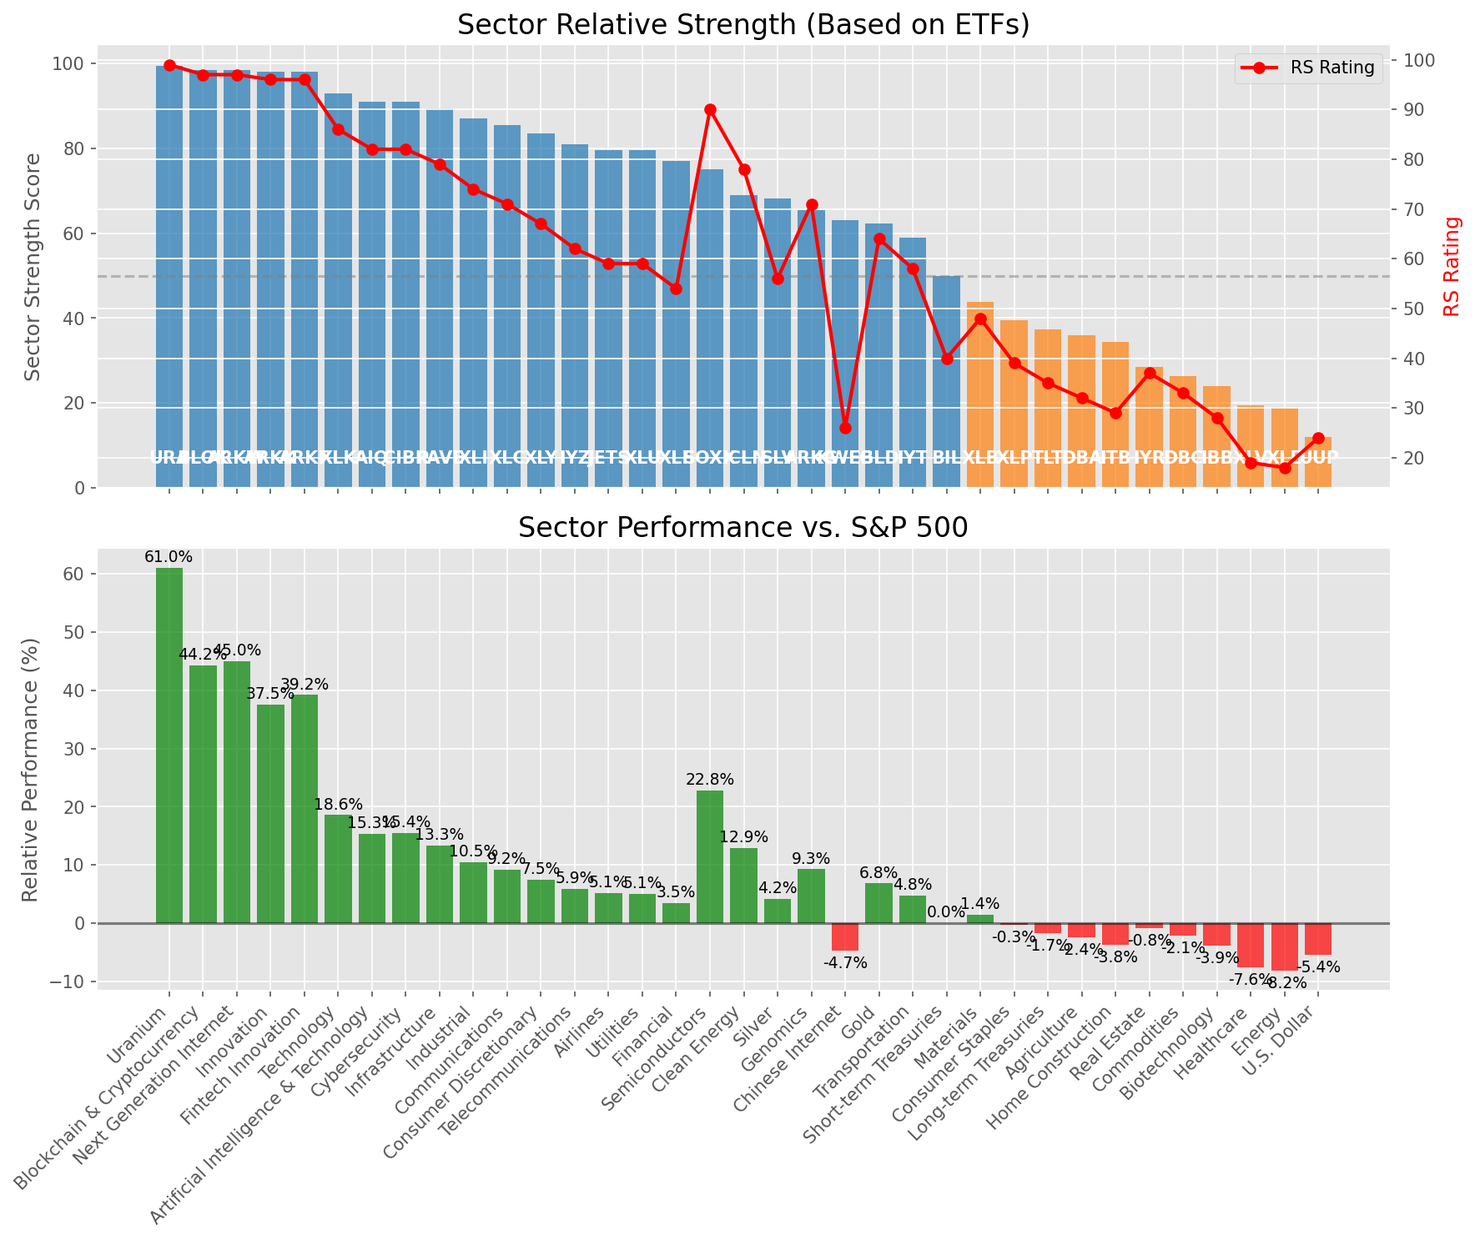
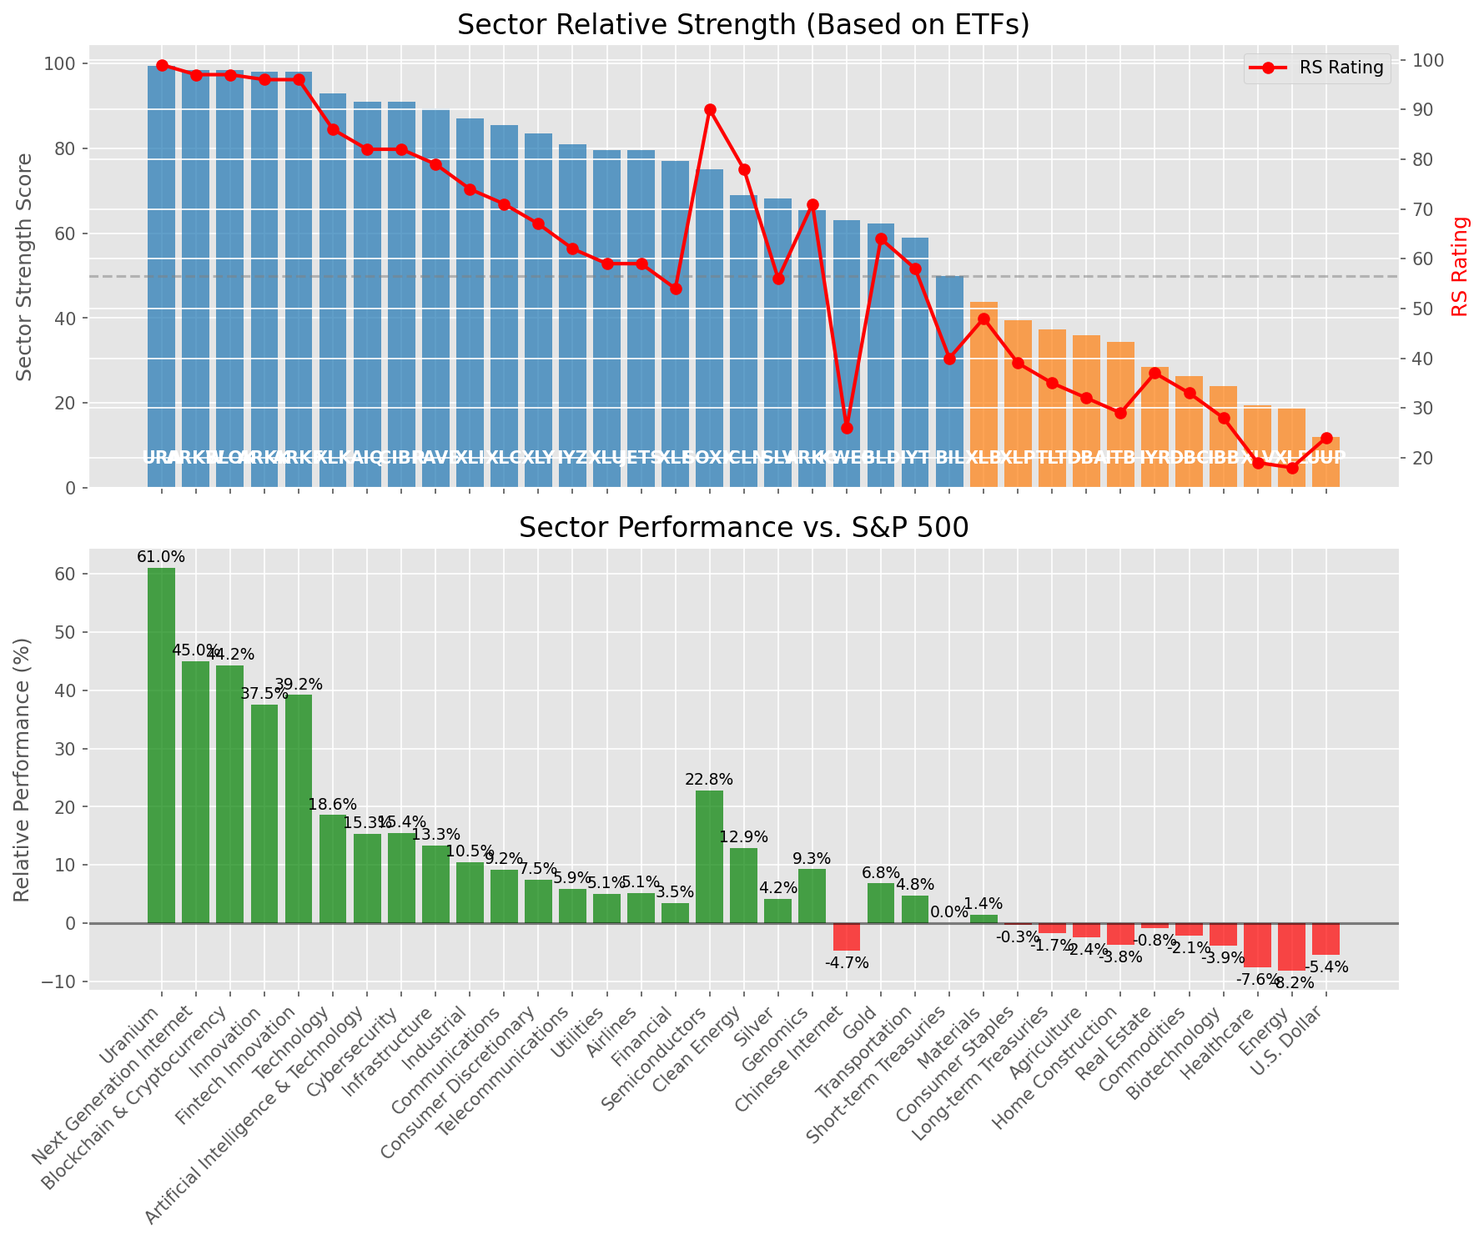
Add market report for 2025-06-28

diff --git a/oneil_relative_strength_report_2025-06-28.md b/oneil_relative_strength_report_2025-06-28.md
@@ -50,8 +50,8 @@ Based on William O'Neil's Relative Strength Methodology
 | ETF | Strength | RS Rating | Performance | Above Key MAs | Trend | Sector |
 |-----|----------|-----------|-------------|--------------|-------|--------|
 | [URA](https://www.tradingview.com/chart/?symbol=URA) | 99.5 | 99.0 | 61.04% | 10d ✓, 50d ✓, 200d ✓ | ↗ | Uranium |
-| [BLOK](https://www.tradingview.com/chart/?symbol=BLOK) | 98.5 | 97.0 | 44.22% | 10d ✓, 50d ✓, 200d ✓ | ↗ | Blockchain & Cryptocurrency |
 | [ARKW](https://www.tradingview.com/chart/?symbol=ARKW) | 98.5 | 97.0 | 44.98% | 10d ✓, 50d ✓, 200d ✓ | ↗ | Next Generation Internet |
+| [BLOK](https://www.tradingview.com/chart/?symbol=BLOK) | 98.5 | 97.0 | 44.22% | 10d ✓, 50d ✓, 200d ✓ | ↗ | Blockchain & Cryptocurrency |
 | [ARKK](https://www.tradingview.com/chart/?symbol=ARKK) | 98.0 | 96.0 | 37.53% | 10d ✓, 50d ✓, 200d ✓ | ↗ | Innovation |
 | [ARKF](https://www.tradingview.com/chart/?symbol=ARKF) | 98.0 | 96.0 | 39.19% | 10d ✓, 50d ✓, 200d ✓ | ↗ | Fintech Innovation |
 | [XLK](https://www.tradingview.com/chart/?symbol=XLK) | 93.0 | 86.0 | 18.56% | 10d ✓, 50d ✓, 200d ✓ | ↗ | Technology |
@@ -62,8 +62,8 @@ Based on William O'Neil's Relative Strength Methodology
 | [XLC](https://www.tradingview.com/chart/?symbol=XLC) | 85.5 | 71.0 | 9.15% | 10d ✓, 50d ✓, 200d ✓ | ↗ | Communications |
 | [XLY](https://www.tradingview.com/chart/?symbol=XLY) | 83.5 | 67.0 | 7.49% | 10d ✓, 50d ✓, 200d ✓ | ↗ | Consumer Discretionary |
 | [IYZ](https://www.tradingview.com/chart/?symbol=IYZ) | 81.0 | 62.0 | 5.93% | 10d ✓, 50d ✓, 200d ✓ | ↗ | Telecommunications |
-| [JETS](https://www.tradingview.com/chart/?symbol=JETS) | 79.5 | 59.0 | 5.14% | 10d ✓, 50d ✓, 200d ✓ | ↗ | Airlines |
 | [XLU](https://www.tradingview.com/chart/?symbol=XLU) | 79.5 | 59.0 | 5.06% | 10d ✓, 50d ✓, 200d ✓ | ↗ | Utilities |
+| [JETS](https://www.tradingview.com/chart/?symbol=JETS) | 79.5 | 59.0 | 5.14% | 10d ✓, 50d ✓, 200d ✓ | ↗ | Airlines |
 | [XLF](https://www.tradingview.com/chart/?symbol=XLF) | 77.0 | 54.0 | 3.51% | 10d ✓, 50d ✓, 200d ✓ | ↗ | Financial |
 | [SOXX](https://www.tradingview.com/chart/?symbol=SOXX) | 75.0 | 90.0 | 22.77% | 10d ✓, 50d ✓, 200d ✓ | ↘ | Semiconductors |
 | [ICLN](https://www.tradingview.com/chart/?symbol=ICLN) | 69.0 | 78.0 | 12.92% | 10d ✓, 50d ✓, 200d ✓ | ↘ | Clean Energy |
@@ -98,7 +98,7 @@ This table shows the relative strength metrics for different market sectors base
 
 ### **Current Sector Leadership**
 
-The current market leadership is coming from the following sectors: **Uranium, Blockchain & Cryptocurrency, Next Generation Internet**.
+The current market leadership is coming from the following sectors: **Uranium, Next Generation Internet, Blockchain & Cryptocurrency**.
 
 The **Uranium** sector (represented by **URA**) is showing particularly strong relative strength with an RS rating of 99.0 and performance of 61.04% vs. the S&P 500. This sector is trading above its 10-day, 50-day, 200-day moving average(s). Investors should consider focusing on high RS stocks within these leading sectors for potential outperformance.
 
@@ -112,64 +112,64 @@ The following 97 stocks show exceptional relative strength:
 |-----------|-----------|---------------|-------|------|--------|
 | 100 | 100 | $152.67 | [Chart](https://www.tradingview.com/chart/?symbol=CLS) | Celestica, Inc. | CLS |
 | 100 | 100 | $83.03 | [Chart](https://www.tradingview.com/chart/?symbol=HOOD) | Robinhood Markets, Inc. Class A Common Stock | HOOD |
-| 100 | 100 | $249.64 | [Chart](https://www.tradingview.com/chart/?symbol=DAVE) | Dave Inc. Class A Common Stock | DAVE |
 | 100 | 100 | $165.40 | [Chart](https://www.tradingview.com/chart/?symbol=SEZL) | Sezzle Inc. Common Stock | SEZL |
 | 100 | 100 | $105.59 | [Chart](https://www.tradingview.com/chart/?symbol=RBLX) | Roblox Corporation | RBLX |
 | 100 | 100 | $219.74 | [Chart](https://www.tradingview.com/chart/?symbol=AGX) | Argan, Inc | AGX |
 | 100 | 100 | $139.39 | [Chart](https://www.tradingview.com/chart/?symbol=LMB) | Limbach Holdings, Inc Common Stock | LMB |
+| 100 | 100 | $249.64 | [Chart](https://www.tradingview.com/chart/?symbol=DAVE) | Dave Inc. Class A Common Stock | DAVE |
+| 99 | 100 | $48.39 | [Chart](https://www.tradingview.com/chart/?symbol=GRAL) | GRAIL, Inc. Common Stock | GRAL |
 | 99 | 100 | $74.97 | [Chart](https://www.tradingview.com/chart/?symbol=ODD) | ODDITY Tech Ltd. Class A Ordinary Shares | ODD |
+| 99 | 100 | $217.37 | [Chart](https://www.tradingview.com/chart/?symbol=JBL) | Jabil Inc. | JBL |
+| 99 | 100 | $162.67 | [Chart](https://www.tradingview.com/chart/?symbol=NRG) | NRG Energy, Inc. | NRG |
 | 99 | 100 | $519.66 | [Chart](https://www.tradingview.com/chart/?symbol=GEV) | GE Vernova Inc. | GEV |
 | 99 | 100 | $194.05 | [Chart](https://www.tradingview.com/chart/?symbol=NET) | Cloudflare, Inc. Class A common stock, par value $0.001 per share | NET |
 | 99 | 100 | $319.26 | [Chart](https://www.tradingview.com/chart/?symbol=CVNA) | Carvana Co. | CVNA |
-| 99 | 100 | $162.67 | [Chart](https://www.tradingview.com/chart/?symbol=NRG) | NRG Energy, Inc. | NRG |
-| 99 | 100 | $48.39 | [Chart](https://www.tradingview.com/chart/?symbol=GRAL) | GRAIL, Inc. Common Stock | GRAL |
-| 99 | 100 | $217.37 | [Chart](https://www.tradingview.com/chart/?symbol=JBL) | Jabil Inc. | JBL |
-| 98 | 100 | $315.32 | [Chart](https://www.tradingview.com/chart/?symbol=ZS) | Zscaler, Inc. Common Stock | ZS |
 | 98 | 100 | $275.82 | [Chart](https://www.tradingview.com/chart/?symbol=CRS) | Carpenter Technology Corp | CRS |
+| 98 | 100 | $43.99 | [Chart](https://www.tradingview.com/chart/?symbol=FARO) | Faro Technologies Inc | FARO |
+| 98 | 100 | $315.32 | [Chart](https://www.tradingview.com/chart/?symbol=ZS) | Zscaler, Inc. Common Stock | ZS |
 | 98 | 100 | $818.60 | [Chart](https://www.tradingview.com/chart/?symbol=AXON) | Axon Enterprise, Inc. Common Stock | AXON |
 | 98 | 100 | $297.88 | [Chart](https://www.tradingview.com/chart/?symbol=TLN) | Talen Energy Corporation Common Stock | TLN |
-| 98 | 100 | $43.99 | [Chart](https://www.tradingview.com/chart/?symbol=FARO) | Faro Technologies Inc | FARO |
-| 97 | 100 | $21.71 | [Chart](https://www.tradingview.com/chart/?symbol=MIR) | Mirion Technologies, Inc. | MIR |
 | 97 | 100 | $28.76 | [Chart](https://www.tradingview.com/chart/?symbol=CRK) | Comstock Resources, Inc. | CRK |
-| 97 | 100 | $45.84 | [Chart](https://www.tradingview.com/chart/?symbol=KTOS) | Kratos Defense & Security Solutions, Inc. | KTOS |
 | 97 | 100 | $154.71 | [Chart](https://www.tradingview.com/chart/?symbol=IRTC) | iRhythm Technologies, Inc | IRTC |
+| 97 | 100 | $21.71 | [Chart](https://www.tradingview.com/chart/?symbol=MIR) | Mirion Technologies, Inc. | MIR |
 | 97 | 100 | $39.36 | [Chart](https://www.tradingview.com/chart/?symbol=AS) | Amer Sports, Inc. | AS |
+| 97 | 100 | $45.84 | [Chart](https://www.tradingview.com/chart/?symbol=KTOS) | Kratos Defense & Security Solutions, Inc. | KTOS |
+| 96 | 100 | $54.13 | [Chart](https://www.tradingview.com/chart/?symbol=BBW) | Build-A-Bear Workshop, Inc. | BBW |
 | 96 | 100 | $184.90 | [Chart](https://www.tradingview.com/chart/?symbol=HWM) | Howmet Aerospace Inc. | HWM |
-| 96 | 100 | $309.51 | [Chart](https://www.tradingview.com/chart/?symbol=RCL) | Royal Caribbean Group | RCL |
 | 96 | 100 | $499.33 | [Chart](https://www.tradingview.com/chart/?symbol=CRWD) | CrowdStrike Holdings, Inc. Class A Common Stock | CRWD |
 | 96 | 100 | $149.22 | [Chart](https://www.tradingview.com/chart/?symbol=COOP) | Mr. Cooper Group Inc. Common Stock | COOP |
-| 96 | 100 | $54.13 | [Chart](https://www.tradingview.com/chart/?symbol=BBW) | Build-A-Bear Workshop, Inc. | BBW |
+| 96 | 100 | $309.51 | [Chart](https://www.tradingview.com/chart/?symbol=RCL) | Royal Caribbean Group | RCL |
 | 95 | 100 | $69.40 | [Chart](https://www.tradingview.com/chart/?symbol=URBN) | Urban Outfitters Inc | URBN |
-| 95 | 100 | $45.04 | [Chart](https://www.tradingview.com/chart/?symbol=DRS) | Leonardo DRS, Inc. Common Stock | DRS |
 | 95 | 100 | $1323.12 | [Chart](https://www.tradingview.com/chart/?symbol=NFLX) | NetFlix Inc | NFLX |
 | 95 | 100 | $772.60 | [Chart](https://www.tradingview.com/chart/?symbol=SPOT) | Spotify Technology S.A. | SPOT |
-| 94 | 100 | $245.96 | [Chart](https://www.tradingview.com/chart/?symbol=WWD) | Woodward, Inc. | WWD |
-| 94 | 100 | $34.52 | [Chart](https://www.tradingview.com/chart/?symbol=UTI) | Universal Technical Institute, Inc. | UTI |
-| 94 | 100 | $72.17 | [Chart](https://www.tradingview.com/chart/?symbol=ULS) | UL Solutions Inc. | ULS |
-| 94 | 100 | $42.83 | [Chart](https://www.tradingview.com/chart/?symbol=CHWY) | Chewy, Inc. | CHWY |
+| 95 | 100 | $45.04 | [Chart](https://www.tradingview.com/chart/?symbol=DRS) | Leonardo DRS, Inc. Common Stock | DRS |
 | 94 | 100 | $76.16 | [Chart](https://www.tradingview.com/chart/?symbol=TPB) | Turning Point Brands, Inc. | TPB |
+| 94 | 100 | $42.83 | [Chart](https://www.tradingview.com/chart/?symbol=CHWY) | Chewy, Inc. | CHWY |
+| 94 | 100 | $245.96 | [Chart](https://www.tradingview.com/chart/?symbol=WWD) | Woodward, Inc. | WWD |
+| 94 | 100 | $72.17 | [Chart](https://www.tradingview.com/chart/?symbol=ULS) | UL Solutions Inc. | ULS |
+| 94 | 100 | $34.52 | [Chart](https://www.tradingview.com/chart/?symbol=UTI) | Universal Technical Institute, Inc. | UTI |
 | 93 | 100 | $32.98 | [Chart](https://www.tradingview.com/chart/?symbol=PRDO) | Perdoceo Education Corporation | PRDO |
 | 93 | 100 | $41.46 | [Chart](https://www.tradingview.com/chart/?symbol=KD) | Kyndryl Holdings, Inc. | KD |
-| 93 | 100 | $23.54 | [Chart](https://www.tradingview.com/chart/?symbol=BTSG) | BrightSpring Health Services, Inc. Common Stock | BTSG |
 | 93 | 100 | $56.19 | [Chart](https://www.tradingview.com/chart/?symbol=AKRO) | Akero Therapeutics, Inc. Common Stock | AKRO |
 | 93 | 100 | $73.22 | [Chart](https://www.tradingview.com/chart/?symbol=CORT) | Corcept Therapeutics Inc. | CORT |
 | 93 | 100 | $53.96 | [Chart](https://www.tradingview.com/chart/?symbol=IBKR) | Interactive Brokers Group, Inc. Class A Common Stock | IBKR |
 | 93 | 100 | $105.07 | [Chart](https://www.tradingview.com/chart/?symbol=JCI) | Johnson Controls International plc | JCI |
+| 93 | 100 | $23.54 | [Chart](https://www.tradingview.com/chart/?symbol=BTSG) | BrightSpring Health Services, Inc. Common Stock | BTSG |
 | 93 | 100 | $40.09 | [Chart](https://www.tradingview.com/chart/?symbol=LTM) | LATAM Airlines Group S.A. American Depositary Shares (each representing two thousand (2,000) shares of Common Stock) | LTM |
 | 92 | 100 | $242.31 | [Chart](https://www.tradingview.com/chart/?symbol=DASH) | DoorDash, Inc. Class A Common Stock | DASH |
 | 92 | 100 | $98.07 | [Chart](https://www.tradingview.com/chart/?symbol=SANM) | Sanmina  Corp | SANM |
-| 91 | 100 | $59.18 | [Chart](https://www.tradingview.com/chart/?symbol=SHLD) | Global X Defense Tech ETF | SHLD |
-| 91 | 100 | $23.91 | [Chart](https://www.tradingview.com/chart/?symbol=KAR) | OPENLANE, Inc | KAR |
-| 91 | 100 | $30.40 | [Chart](https://www.tradingview.com/chart/?symbol=DB) | Deutsche Bank Aktiengesellschaft | DB |
-| 91 | 100 | $254.51 | [Chart](https://www.tradingview.com/chart/?symbol=GE) | GE Aerospace | GE |
 | 91 | 100 | $43.89 | [Chart](https://www.tradingview.com/chart/?symbol=TOST) | Toast, Inc. | TOST |
 | 91 | 100 | $28.05 | [Chart](https://www.tradingview.com/chart/?symbol=SRAD) | Sportradar Group AG Class A Ordinary Shares | SRAD |
+| 91 | 100 | $30.40 | [Chart](https://www.tradingview.com/chart/?symbol=DB) | Deutsche Bank Aktiengesellschaft | DB |
+| 91 | 100 | $254.51 | [Chart](https://www.tradingview.com/chart/?symbol=GE) | GE Aerospace | GE |
+| 91 | 100 | $23.91 | [Chart](https://www.tradingview.com/chart/?symbol=KAR) | OPENLANE, Inc | KAR |
+| 91 | 100 | $59.18 | [Chart](https://www.tradingview.com/chart/?symbol=SHLD) | Global X Defense Tech ETF | SHLD |
 | 90 | 100 | $60.72 | [Chart](https://www.tradingview.com/chart/?symbol=IBIT) | iShares Bitcoin Trust ETF | IBIT |
-| 90 | 100 | $140.56 | [Chart](https://www.tradingview.com/chart/?symbol=PPA) | Invesco Aerospace & Defense ETF | PPA |
-| 90 | 100 | $44.86 | [Chart](https://www.tradingview.com/chart/?symbol=BBIO) | BridgeBio Pharma, Inc. Common Stock | BBIO |
-| 90 | 100 | $48.80 | [Chart](https://www.tradingview.com/chart/?symbol=INOD) | Innodata Inc. | INOD |
 | 90 | 100 | $53.41 | [Chart](https://www.tradingview.com/chart/?symbol=MRCY) | Mercury Systems Inc. | MRCY |
+| 90 | 100 | $48.80 | [Chart](https://www.tradingview.com/chart/?symbol=INOD) | Innodata Inc. | INOD |
+| 90 | 100 | $44.86 | [Chart](https://www.tradingview.com/chart/?symbol=BBIO) | BridgeBio Pharma, Inc. Common Stock | BBIO |
 | 90 | 100 | $83.25 | [Chart](https://www.tradingview.com/chart/?symbol=SLNO) | Soleno Therapeutics, Inc. Common Stock | SLNO |
+| 90 | 100 | $140.56 | [Chart](https://www.tradingview.com/chart/?symbol=PPA) | Invesco Aerospace & Defense ETF | PPA |
 | 89 | 100 | $167.18 | [Chart](https://www.tradingview.com/chart/?symbol=CAH) | Cardinal Health, Inc. | CAH |
 | 89 | 100 | $62.25 | [Chart](https://www.tradingview.com/chart/?symbol=CAKE) | Cheesecake Factory (The) | CAKE |
 | 89 | 100 | $27.59 | [Chart](https://www.tradingview.com/chart/?symbol=UVE) | UNIVERSAL INSURANCE HLDG, INC. | UVE |
@@ -183,14 +183,14 @@ The following 97 stocks show exceptional relative strength:
 | 87 | 98 | $187.55 | [Chart](https://www.tradingview.com/chart/?symbol=ITA) | iShares U.S. Aerospace & Defense ETF | ITA |
 | 87 | 98 | $283.41 | [Chart](https://www.tradingview.com/chart/?symbol=VEEV) | Veeva Systems Inc. | VEEV |
 | 87 | 98 | $5693.13 | [Chart](https://www.tradingview.com/chart/?symbol=BKNG) | Booking Holdings Inc. Common Stock | BKNG |
-| 85 | 98 | $179.35 | [Chart](https://www.tradingview.com/chart/?symbol=TKO) | TKO Group Holdings, Inc. | TKO |
 | 85 | 98 | $44.42 | [Chart](https://www.tradingview.com/chart/?symbol=VIRT) | Virtu Financial, Inc. Class A | VIRT |
-| 85 | 98 | $63.53 | [Chart](https://www.tradingview.com/chart/?symbol=CHEF) | The Chef's Warehouse Inc | CHEF |
 | 85 | 98 | $289.70 | [Chart](https://www.tradingview.com/chart/?symbol=IBM) | International Business Machines Corporation | IBM |
+| 85 | 98 | $63.53 | [Chart](https://www.tradingview.com/chart/?symbol=CHEF) | The Chef's Warehouse Inc | CHEF |
+| 85 | 98 | $179.35 | [Chart](https://www.tradingview.com/chart/?symbol=TKO) | TKO Group Holdings, Inc. | TKO |
 | 86 | 97 | $77.27 | [Chart](https://www.tradingview.com/chart/?symbol=USFD) | US Foods Holding Corp. | USFD |
 | 86 | 97 | $74.39 | [Chart](https://www.tradingview.com/chart/?symbol=CTVA) | Corteva, Inc. Common Stock | CTVA |
-| 84 | 97 | $180.05 | [Chart](https://www.tradingview.com/chart/?symbol=EAT) | Brinker International, Inc. | EAT |
 | 84 | 97 | $18.61 | [Chart](https://www.tradingview.com/chart/?symbol=BCS) | Barclays PLC | BCS |
+| 84 | 97 | $180.05 | [Chart](https://www.tradingview.com/chart/?symbol=EAT) | Brinker International, Inc. | EAT |
 | 83 | 97 | $91.38 | [Chart](https://www.tradingview.com/chart/?symbol=SNEX) | StoneX Group Inc. Common Stock | SNEX |
 | 86 | 96 | $111.84 | [Chart](https://www.tradingview.com/chart/?symbol=SPMO) | Invesco S&P 500 Momentum ETF | SPMO |
 | 85 | 96 | $105.27 | [Chart](https://www.tradingview.com/chart/?symbol=FWONK) | Liberty Media Corporation Series C Liberty Formula One Common Stock | FWONK |
@@ -217,41 +217,41 @@ The following 81 stocks show deteriorating relative strength:
 
 | RS Rating | Sell Score | Current Price | Chart | Name | Ticker |
 |-----------|------------|---------------|-------|------|--------|
-| 1 | 100 | $10.09 | [Chart](https://www.tradingview.com/chart/?symbol=HIBS) | Direxion Daily S&P 500 High Beta Bear 3X Shares | HIBS |
-| 1 | 100 | $27.54 | [Chart](https://www.tradingview.com/chart/?symbol=TECS) | Direxion Daily Technology Bear 3x Shares | TECS |
-| 1 | 100 | $14.48 | [Chart](https://www.tradingview.com/chart/?symbol=NVDS) | Investment Managers Series Trust II Tradr 1.5X Short NVDA Daily ETF | NVDS |
 | 1 | 100 | $12.67 | [Chart](https://www.tradingview.com/chart/?symbol=RXST) | RxSight, Inc. Common Stock | RXST |
 | 1 | 100 | $28.34 | [Chart](https://www.tradingview.com/chart/?symbol=HELE) | Helen Of Troy Ltd | HELE |
+| 1 | 100 | $14.48 | [Chart](https://www.tradingview.com/chart/?symbol=NVDS) | Investment Managers Series Trust II Tradr 1.5X Short NVDA Daily ETF | NVDS |
+| 1 | 100 | $10.09 | [Chart](https://www.tradingview.com/chart/?symbol=HIBS) | Direxion Daily S&P 500 High Beta Bear 3X Shares | HIBS |
+| 1 | 100 | $27.54 | [Chart](https://www.tradingview.com/chart/?symbol=TECS) | Direxion Daily Technology Bear 3x Shares | TECS |
+| 2 | 100 | $10.76 | [Chart](https://www.tradingview.com/chart/?symbol=WNC) | Wabash National Corp. | WNC |
 | 2 | 100 | $25.63 | [Chart](https://www.tradingview.com/chart/?symbol=QID) | ProShares UltraShort QQQ | QID |
 | 2 | 100 | $11.64 | [Chart](https://www.tradingview.com/chart/?symbol=NRIX) | Nurix Therapeutics, Inc. Common stock | NRIX |
-| 2 | 100 | $10.76 | [Chart](https://www.tradingview.com/chart/?symbol=WNC) | Wabash National Corp. | WNC |
-| 3 | 100 | $35.96 | [Chart](https://www.tradingview.com/chart/?symbol=SARK) | Investment Managers Series Trust II Tradr 1X Short Innovation Daily ETF | SARK |
 | 3 | 100 | $17.17 | [Chart](https://www.tradingview.com/chart/?symbol=SRTY) | ProShares UltraPro Short Russell2000 | SRTY |
-| 3 | 100 | $11.84 | [Chart](https://www.tradingview.com/chart/?symbol=VFC) | V.F. Corporation | VFC |
 | 3 | 100 | $21.16 | [Chart](https://www.tradingview.com/chart/?symbol=AMRK) | A-Mark Precious Metals, Inc. | AMRK |
+| 3 | 100 | $11.84 | [Chart](https://www.tradingview.com/chart/?symbol=VFC) | V.F. Corporation | VFC |
+| 3 | 100 | $35.96 | [Chart](https://www.tradingview.com/chart/?symbol=SARK) | Investment Managers Series Trust II Tradr 1X Short Innovation Daily ETF | SARK |
 | 3 | 100 | $44.09 | [Chart](https://www.tradingview.com/chart/?symbol=LINE) | Lineage, Inc. Common Stock | LINE |
 | 4 | 100 | $10.77 | [Chart](https://www.tradingview.com/chart/?symbol=MBC) | MasterBrand, Inc. | MBC |
 | 5 | 100 | $19.81 | [Chart](https://www.tradingview.com/chart/?symbol=BITI) | ProShares Short Bitcoin ETF | BITI |
+| 5 | 100 | $24.73 | [Chart](https://www.tradingview.com/chart/?symbol=ASTH) | Astrana Health Inc. Common Stock | ASTH |
+| 5 | 100 | $48.20 | [Chart](https://www.tradingview.com/chart/?symbol=CCOI) | Cogent Communications Holdings, Inc. | CCOI |
 | 5 | 100 | $15.23 | [Chart](https://www.tradingview.com/chart/?symbol=PD) | PagerDuty, Inc. | PD |
 | 5 | 100 | $22.12 | [Chart](https://www.tradingview.com/chart/?symbol=RYN) | Rayonier Inc. | RYN |
-| 5 | 100 | $48.20 | [Chart](https://www.tradingview.com/chart/?symbol=CCOI) | Cogent Communications Holdings, Inc. | CCOI |
-| 5 | 100 | $24.73 | [Chart](https://www.tradingview.com/chart/?symbol=ASTH) | Astrana Health Inc. Common Stock | ASTH |
 | 7 | 100 | $42.23 | [Chart](https://www.tradingview.com/chart/?symbol=SDOW) | ProShares UltraPro Short Dow 30 | SDOW |
 | 8 | 100 | $81.49 | [Chart](https://www.tradingview.com/chart/?symbol=LNTH) | Lantheus Holdings, Inc | LNTH |
-| 9 | 100 | $29.96 | [Chart](https://www.tradingview.com/chart/?symbol=CRNX) | Crinetics Pharmaceuticals, Inc. | CRNX |
 | 9 | 100 | $17.40 | [Chart](https://www.tradingview.com/chart/?symbol=DJT) | Trump Media & Technology Group Corp. Common Stock | DJT |
 | 9 | 100 | $11.57 | [Chart](https://www.tradingview.com/chart/?symbol=KELYA) | Kelly Services Inc | KELYA |
-| 11 | 100 | $10.56 | [Chart](https://www.tradingview.com/chart/?symbol=ABR) | Arbor Realty Trust, Inc. | ABR |
+| 9 | 100 | $29.96 | [Chart](https://www.tradingview.com/chart/?symbol=CRNX) | Crinetics Pharmaceuticals, Inc. | CRNX |
 | 11 | 100 | $86.13 | [Chart](https://www.tradingview.com/chart/?symbol=BIDU) | Baidu, Inc. | BIDU |
 | 11 | 100 | $10.02 | [Chart](https://www.tradingview.com/chart/?symbol=LBTYA) | Liberty Global Ltd. Class A Common Shares | LBTYA |
+| 11 | 100 | $10.56 | [Chart](https://www.tradingview.com/chart/?symbol=ABR) | Arbor Realty Trust, Inc. | ABR |
 | 13 | 100 | $29.03 | [Chart](https://www.tradingview.com/chart/?symbol=RNA) | Avidity Biosciences, Inc. Common Stock | RNA |
 | 6 | 99 | $65.82 | [Chart](https://www.tradingview.com/chart/?symbol=WK) | Workiva Inc. | WK |
-| 7 | 99 | $30.89 | [Chart](https://www.tradingview.com/chart/?symbol=FUN) | Six Flags Entertainment Corporation | FUN |
 | 7 | 99 | $17.25 | [Chart](https://www.tradingview.com/chart/?symbol=CODI) | Compass Diversified | CODI |
+| 7 | 99 | $30.89 | [Chart](https://www.tradingview.com/chart/?symbol=FUN) | Six Flags Entertainment Corporation | FUN |
 | 10 | 99 | $11.35 | [Chart](https://www.tradingview.com/chart/?symbol=M) | Macy's Inc. | M |
 | 8 | 98 | $105.14 | [Chart](https://www.tradingview.com/chart/?symbol=PDD) | PDD Holdings Inc. American Depositary Shares | PDD |
-| 12 | 98 | $17.78 | [Chart](https://www.tradingview.com/chart/?symbol=ZTO) | ZTO Express (Cayman) Inc. American Depositary Shares, each representing one Class A ordinary share | ZTO |
 | 12 | 98 | $381.49 | [Chart](https://www.tradingview.com/chart/?symbol=ELV) | Elevance Health, Inc. | ELV |
+| 12 | 98 | $17.78 | [Chart](https://www.tradingview.com/chart/?symbol=ZTO) | ZTO Express (Cayman) Inc. American Depositary Shares, each representing one Class A ordinary share | ZTO |
 | 14 | 98 | $72.67 | [Chart](https://www.tradingview.com/chart/?symbol=TNET) | TRINET GROUP, INC. | TNET |
 | 8 | 97 | $27.20 | [Chart](https://www.tradingview.com/chart/?symbol=WMG) | Warner Music Group Corp. Class A Common Stock | WMG |
 | 11 | 97 | $13.56 | [Chart](https://www.tradingview.com/chart/?symbol=OCSL) | Oaktree Specialty Lending Corporation | OCSL |
@@ -286,8 +286,8 @@ The following 81 stocks show deteriorating relative strength:
 | 18 | 82 | $40.71 | [Chart](https://www.tradingview.com/chart/?symbol=UDR) | UDR, Inc. | UDR |
 | 26 | 81 | $105.62 | [Chart](https://www.tradingview.com/chart/?symbol=PLD) | PROLOGIS, INC. | PLD |
 | 21 | 80 | $26.06 | [Chart](https://www.tradingview.com/chart/?symbol=DRV) | Direxion Daily Real Estate Bear 3X Shares | DRV |
-| 29 | 80 | $15.08 | [Chart](https://www.tradingview.com/chart/?symbol=PLSE) | Pulse Biosciences, Inc Common Stock (DE) | PLSE |
 | 29 | 80 | $10.35 | [Chart](https://www.tradingview.com/chart/?symbol=MUC) | BLACKROCK MUNIHOLDINGS CALIFORNIA QUALITY FUND, INC | MUC |
+| 29 | 80 | $15.08 | [Chart](https://www.tradingview.com/chart/?symbol=PLSE) | Pulse Biosciences, Inc Common Stock (DE) | PLSE |
 | 26 | 78 | $29.00 | [Chart](https://www.tradingview.com/chart/?symbol=APPN) | Appian Corporation Class A Common Stock | APPN |
 | 24 | 77 | $37.96 | [Chart](https://www.tradingview.com/chart/?symbol=LZB) | La-Z-Boy Incorporated | LZB |
 | 29 | 77 | $41.89 | [Chart](https://www.tradingview.com/chart/?symbol=NBTB) | NBT Bancorp Inc | NBTB |
